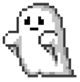
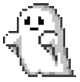
light +- done

Changed region(s): [[0.025, 0.0732, 0.975, 0.9512], [0.35, 0.0244, 0.675, 0.0732]]

diff --git a/main.py b/main.py
@@ -34,7 +34,7 @@ if __name__ == "__main__":
     image_right = pygame.image.load(r'guard1.png')
     image_front = pygame.image.load(r'guard2.png')
     image_left = pygame.image.load(r'guard3.png')
-    ghost_right = pygame.image.load(r'ghost2.png')
+    ghost_right = pygame.image.load(r'ghost1.png')
     ghost_left = pygame.image.load(r'ghost2.png')
     image = image_front
 
@@ -92,17 +92,25 @@ if __name__ == "__main__":
         if (randint(0, 100) == 1):
             gx = player1.x
             gy = player1.y
-            while math.sqrt((gx - player1.x) * (gx - player1.x) + (gy - player1.y) * (gy - player1.y)) < 100:
+            while math.sqrt((gx - player1.x) * (gx - player1.x) + (gy - player1.y) * (gy - player1.y)) < 200:
                 gx = randint(0, SIZE[0])
                 gy = randint(0, SIZE[1])
 
-            arrGhosts.append(ghost(gx, gy))
+            if (gx > player1.x):
+                arrGhosts.append(ghost(gx, gy, 'left'))
+            else:
+                arrGhosts.append(ghost(gx, gy, 'right'))
         
         pygame.time.wait(1000 // fps)
         screen.fill(BG_COLOR)
         screen.blit(image, (player1.x, player1.y))
+        if player1.bulb:
+            for i in range(100):
+                for j in range(i * 2):
+                    screen.set_at((player1.x + i, player1.y), (100, 0, 0))
+
         for item in arrGhosts:
-            if (elem.x > player1.x):
+            if (item.side == 'left'):
                 screen.blit(ghost_left, (item.x, item.y))
             else:
                 screen.blit(ghost_right, (item.x, item.y))
